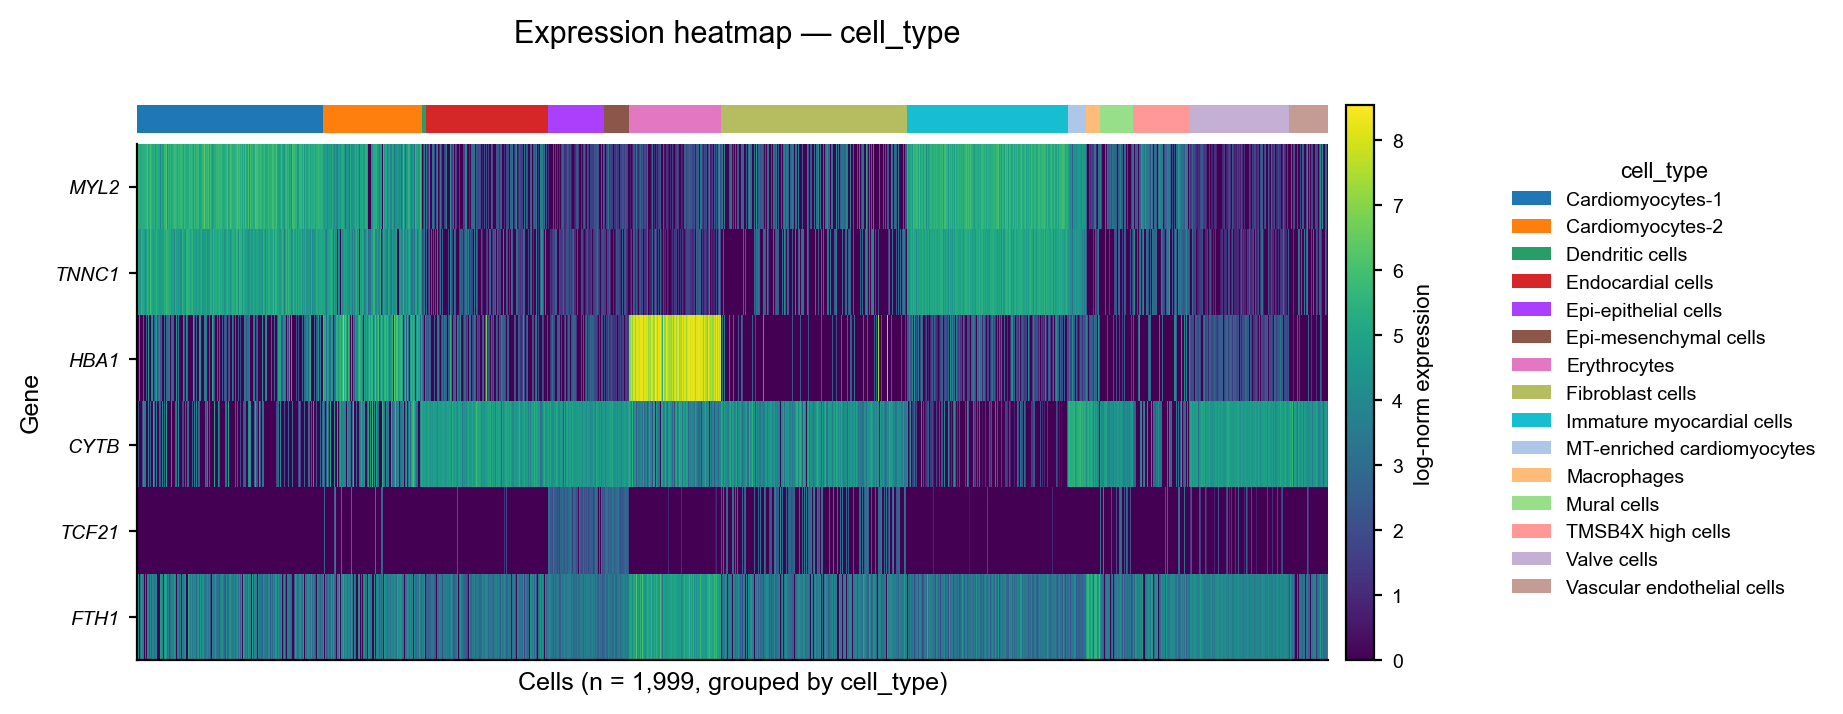
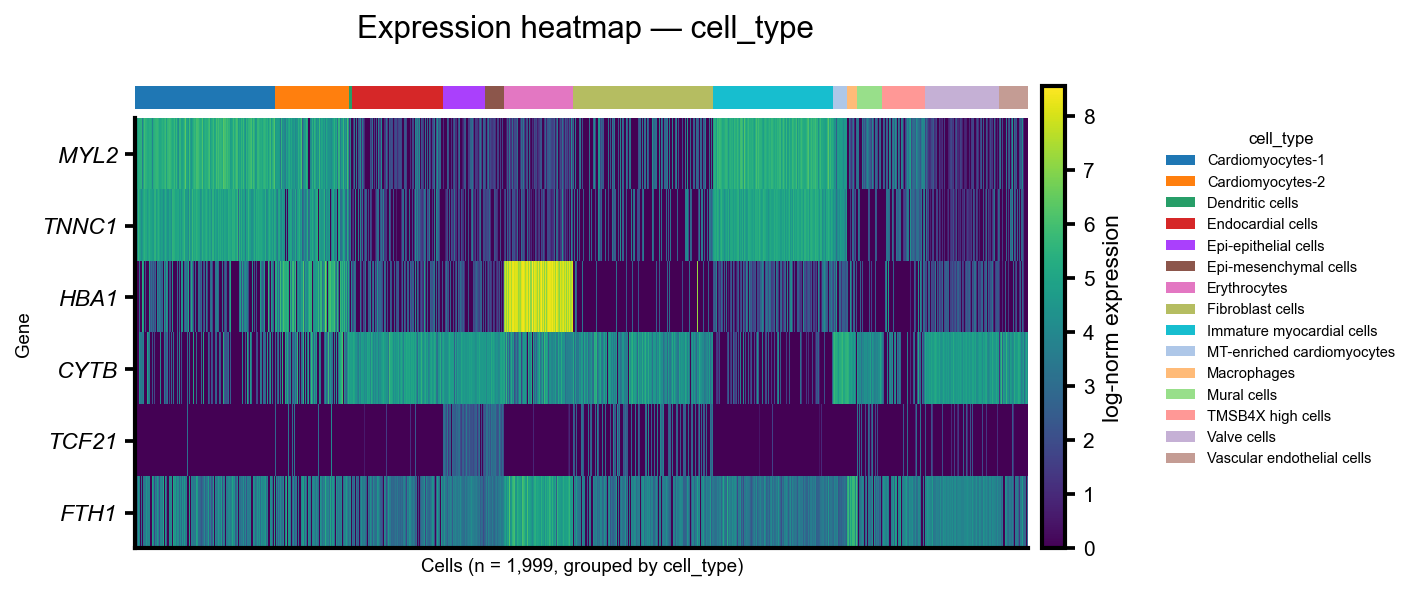
feat: v0.7.0 — figures4papers bold is the default style; docs site + MCP server
- Default plot style is now the bold figures4papers look (2pt axes, bold
  titles, black-edged bars, Okabe-Ito, viridis), applied automatically on
  import. set_publication_style("nature") switches to the compact journal look.
  Fully backward compatible (positional palette + bold_labels restored).
- Ships the scanpy-style docs site (xuan13hao.github.io/scPyviewer) and the
  scpyviewer-mcp MCP server + SKILL.md (from the preceding commits).
- Gallery regenerated in the bold default.

diff --git a/scPyviewer/api.py b/scPyviewer/api.py
@@ -163,7 +163,7 @@ _STYLE_PRESETS = {
 
 
 def set_publication_style(
-    preset: str = "nature",
+    preset: str = "bold",
     palette: str = "okabe-ito",
     dpi: int = 300,
     base_fontsize: float | None = None,
@@ -181,9 +181,11 @@ def set_publication_style(
     their colour fallback), perceptually-uniform ``viridis`` for continuous data,
     no top/right spines, white background, and editable SVG text. Two presets:
 
-    * ``"nature"`` *(default)* — Nature artwork style: thin 0.8 pt line art,
-      compact 8 pt sans-serif, un-bolded titles. Clean and journal-ready.
-    * ``"bold"`` — heavier look (2 pt axes, 12 pt, bold titles) for talks/posters.
+    * ``"bold"`` *(default)* — a bold, figures4papers-style look: 2 pt axes,
+      12 pt type, bold titles, black-edged bars. High-impact for talks, posters,
+      and punchy paper panels. **Applied automatically on import.**
+    * ``"nature"`` — Nature artwork style: thin 0.8 pt line art, compact 8 pt
+      sans-serif, un-bolded titles. Clean and journal-ready.
 
     These encode published guidance — Nature's figure requirements (Arial/
     Helvetica, 0.5–1 pt lines, avoid red/green and rainbow colormaps, editable
@@ -272,6 +274,12 @@ def set_publication_style(
         "svg.fonttype": "none" if editable_svg_text else "path",
         "text.usetex": usetex,
     })
+
+
+# Apply the default (figures4papers "bold") style on import so every figure is
+# styled out of the box. Call set_publication_style("nature") for the compact
+# journal look, or set_style()/mpl.rcParams to customise further.
+set_publication_style()
 
 
 # ------------------------------------------------------------------ handle

diff --git a/scPyviewer/__init__.py b/scPyviewer/__init__.py
@@ -16,7 +16,7 @@ Quick start (programmatic)::
 Launch the interactive viewer with the ``scpyviewer`` console script, or
 ``python -m streamlit run scPyviewer/app.py``.
 """
-__version__ = "0.6.0"
+__version__ = "0.7.0"
 
 from .api import (  # noqa: E402,F401
     Dataset,

diff --git a/README.md b/README.md
@@ -200,18 +200,18 @@ sv.set_style(font_family="Arial", base_fontsize=11, dpi=300)
 
 ### Publication style (v0.6.0+)
 
-One call applies a single, coherent style to **every** `plot_*` — a colour-blind-safe qualitative cycle, perceptually-uniform `viridis` for continuous data, no top/right spines, white background, and editable SVG text. Two presets:
+scPyviewer applies a **bold, figures4papers-style** look to **every** `plot_*` automatically on import — thick 2 pt axes, bold titles, black-edged bars, a colour-blind-safe qualitative cycle, perceptually-uniform `viridis` for continuous data, and editable SVG text. Switch styles with one call:
 
 ```python
-sv.set_publication_style()                 # "nature" (default): thin 0.8pt lines, 8pt, un-bolded
-sv.set_publication_style("bold", dpi=600)  # heavier look for talks / posters
+sv.set_publication_style()                 # "bold" (default): figures4papers look — also applied on import
+sv.set_publication_style("nature")         # Nature artwork style: thin 0.8pt lines, compact, journal-clean
 sv.set_publication_style(palette="publication")   # alternate palette
 
 sv.get_palette("okabe-ito")   # -> ['#E69F00', '#56B4E9', '#009E73', ...]
 ```
 
-- **`"nature"`** (default) follows [Nature's artwork guidance](https://www.nature.com/nature/for-authors/initial-submission) — Arial/Helvetica, thin 0.5–1 pt line art, compact type, **no** red/green or rainbow colormaps, editable vector text.
-- **`"bold"`** keeps the heavier presentation look (2 pt axes, bold titles).
+- **`"bold"`** (default) — high-impact figures4papers look (2 pt axes, 12 pt, bold titles, black bar edges) for talks, posters, and punchy paper panels.
+- **`"nature"`** follows [Nature's artwork guidance](https://www.nature.com/nature/for-authors/initial-submission) — Arial/Helvetica, thin 0.5–1 pt line art, compact type, **no** red/green or rainbow colormaps, editable vector text.
 
 Two palettes: `"okabe-ito"` (the colour-universal, CVD-safe Okabe & Ito set — [why it matters for single-cell figures](https://pmc.ncbi.nlm.nih.gov/articles/PMC9829408/)) and `"publication"` (a muted in-house set). Individual knobs (`base_fontsize`, `linewidth`, `bold_titles`, `dpi`) override the preset. Conventions were implemented independently — no third-party code — so scPyviewer stays MIT.
 

diff --git a/docs/index.md b/docs/index.md
@@ -50,7 +50,7 @@ Explore million-cell atlases smoothly in low memory.
 
 ## Publication-quality figures
 
-Every figure below is one `plot_*` call under {func}`~scPyviewer.set_publication_style` (Nature-style defaults, colour-blind-safe Okabe-Ito palette). See the [tutorial](tutorial) for the code.
+Every figure below is one `plot_*` call under {func}`~scPyviewer.set_publication_style` (bold figures4papers-style default, colour-blind-safe Okabe-Ito palette; call `set_publication_style("nature")` for the compact journal look). See the [tutorial](tutorial) for the code.
 
 ::::{grid} 3
 :gutter: 2

diff --git a/docs/mcp.md b/docs/mcp.md
@@ -50,7 +50,7 @@ see [Large data](large_data)).
 | `plot_bar` | PNG | mean ± SEM per group |
 | `plot_composition` | PNG | stacked composition bars |
 
-All figures use the Nature-style, colour-blind-safe
+All figures use the bold figures4papers-style, colour-blind-safe
 {func}`~scPyviewer.set_publication_style` defaults.
 
 ## Typical flow
